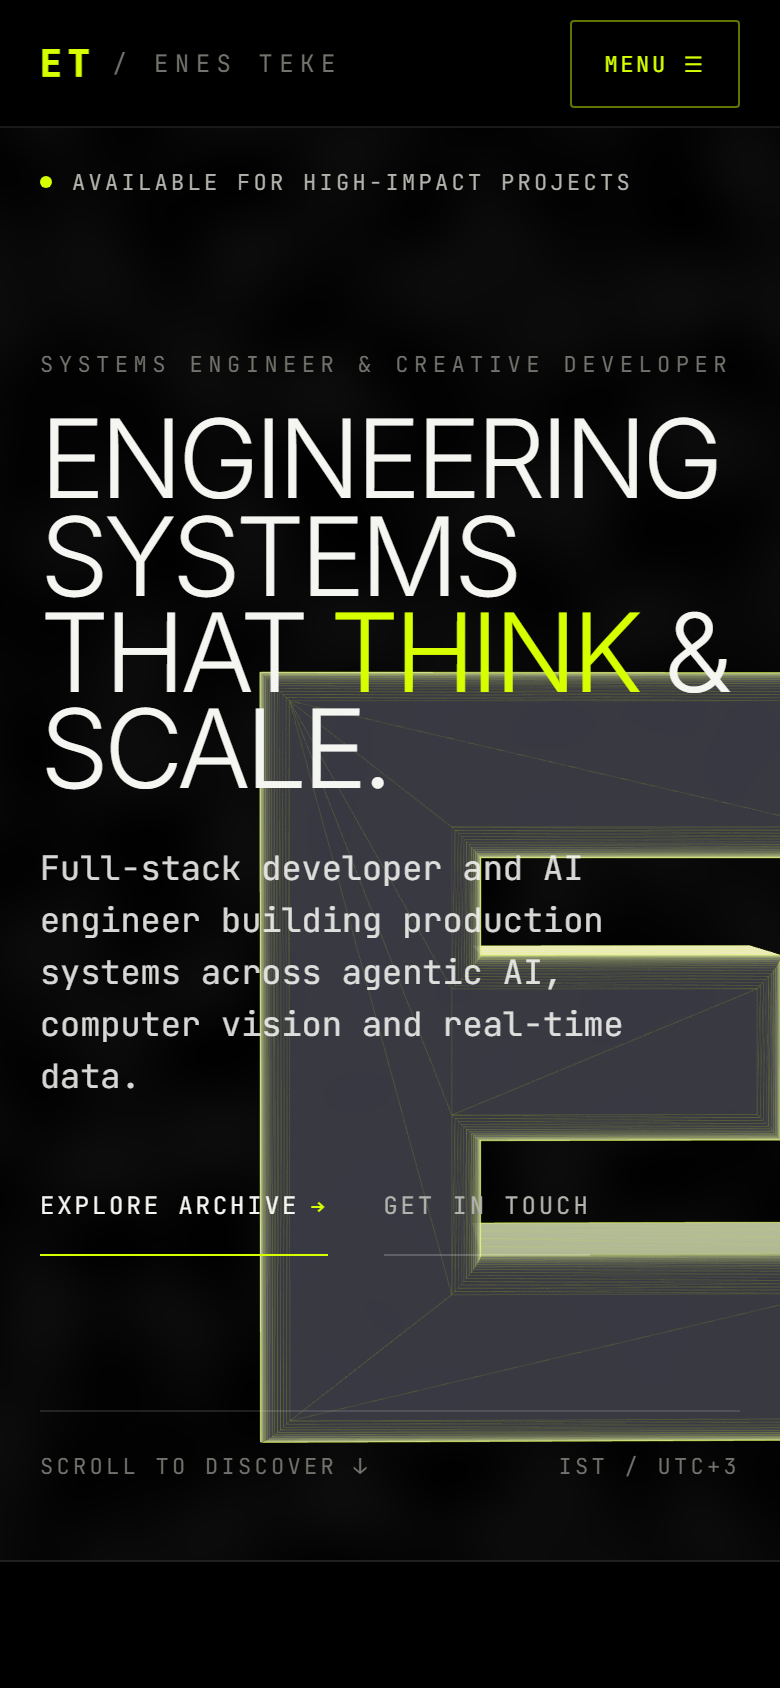
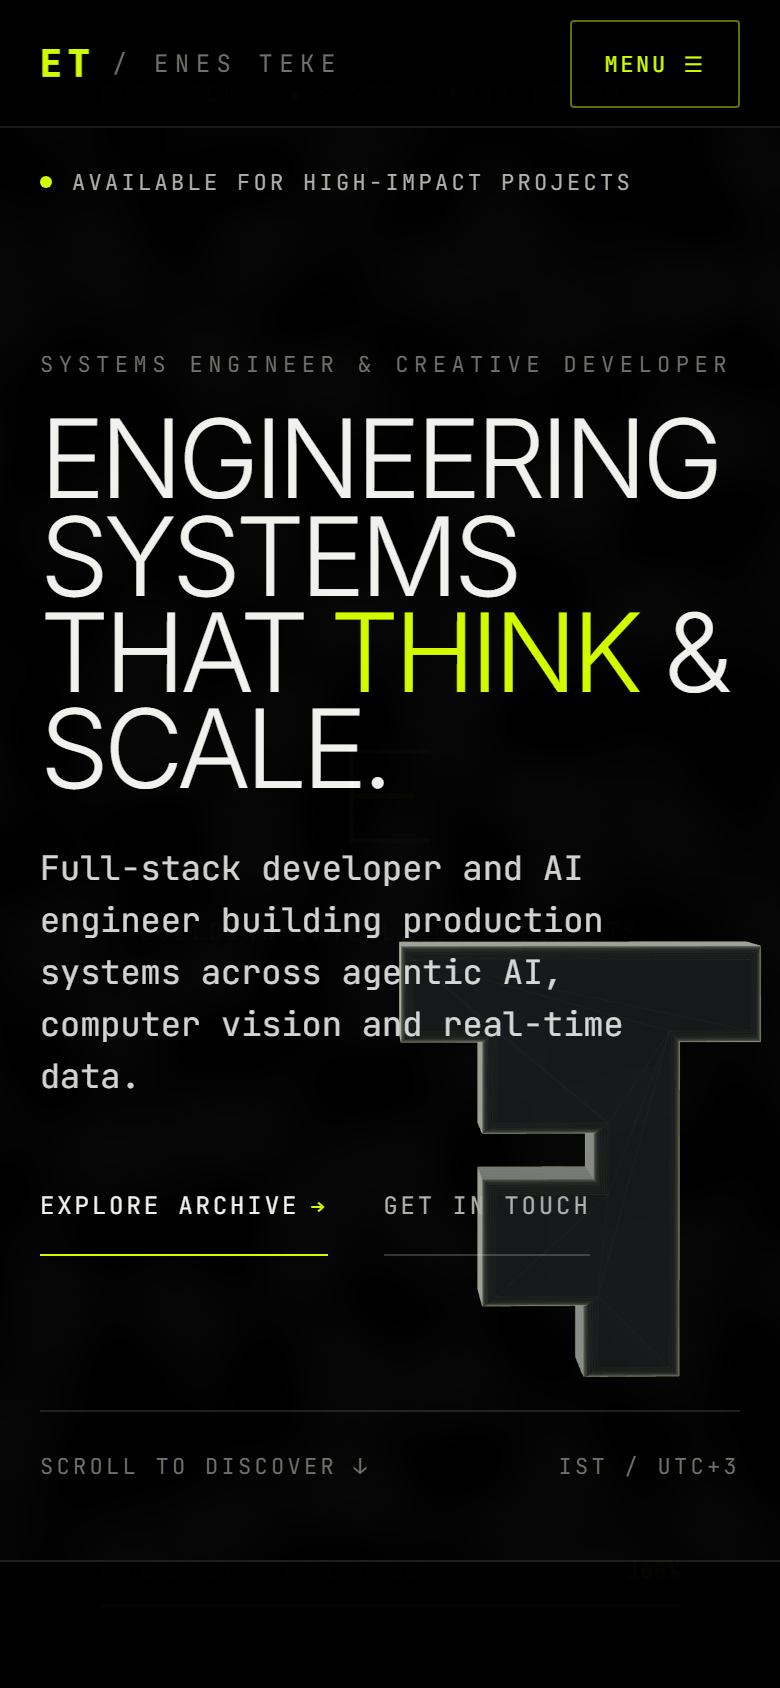
fix: complete hero visual capture and monogram safe positioning

Changed region(s): [[0.3077, 0.4005, 1.0, 0.8626]]

diff --git a/src/components/layout/LoadingScreen.tsx b/src/components/layout/LoadingScreen.tsx
@@ -1,111 +1,81 @@
 import React, { useEffect, useState } from 'react';
 
 interface LoadingScreenProps {
-  onLoaded?: () => void;
+  onLoaded: () => void;
 }
 
 export default function LoadingScreen({ onLoaded }: LoadingScreenProps) {
-  const [progress, setProgress] = useState<number>(0);
-  const [isFading, setIsFading] = useState<boolean>(false);
+  const [progress, setProgress] = useState(0);
+  const [fade, setFade] = useState(false);
+  const [showLoader, setShowLoader] = useState(true);
+
+  const isE2E = typeof window !== 'undefined' && new URLSearchParams(window.location.search).get('e2e') === '1';
 
   useEffect(() => {
-    const startTime = Date.now();
-    const duration = 1200;
+    if (isE2E) {
+      setProgress(100);
+      setFade(true);
+      onLoaded();
+      const timer = setTimeout(() => setShowLoader(false), 200);
+      return () => clearTimeout(timer);
+    }
 
     const interval = setInterval(() => {
-      const elapsed = Date.now() - startTime;
-      const pct = Math.min(100, Math.floor((elapsed / duration) * 100));
-      setProgress(pct);
-
-      if (pct >= 100) {
-        clearInterval(interval);
-        setTimeout(() => setIsFading(true), 150);
-        setTimeout(() => {
-          if (onLoaded) onLoaded();
-        }, 650);
-      }
-    }, 20);
+      setProgress((prev) => {
+        if (prev >= 100) {
+          clearInterval(interval);
+          setFade(true);
+          onLoaded();
+          setTimeout(() => setShowLoader(false), 600);
+          return 100;
+        }
+        return prev + 20;
+      });
+    }, 100);
 
     return () => clearInterval(interval);
-  }, [onLoaded]);
+  }, [onLoaded, isE2E]);
+
+  if (!showLoader) return null;
 
   return (
     <div
+      data-app-loader="true"
       style={{
         position: 'fixed',
-        top: 0,
-        left: 0,
-        width: '100vw',
-        height: '100vh',
+        inset: 0,
         backgroundColor: '#000000',
-        zIndex: 99999,
+        zIndex: 100000,
         display: 'flex',
         flexDirection: 'column',
         justifyContent: 'space-between',
-        padding: '40px 50px',
-        opacity: isFading ? 0 : 1,
-        pointerEvents: isFading ? 'none' : 'auto',
-        transition: 'opacity 0.5s cubic-bezier(0.65, 0, 0.35, 1)',
-        fontFamily: "'IBM Plex Mono', 'JetBrains Mono', monospace",
+        padding: '60px var(--page-padding)',
+        fontFamily: "var(--font-family-mono)",
         color: '#f5f5f2',
+        opacity: fade ? 0 : 1,
+        transition: 'opacity 0.6s cubic-bezier(0.16, 1, 0.3, 1)',
+        pointerEvents: fade ? 'none' : 'auto',
       }}
     >
-      <div style={{ display: 'flex', justifyContent: 'space-between', alignItems: 'center' }}>
-        <span style={{ fontSize: '11px', letterSpacing: '0.2em', color: '#73736e', textTransform: 'uppercase' }}>
-          ENES TEKE <span style={{ color: '#d7ff00', marginLeft: '6px' }}>●</span>
-        </span>
-        <span style={{ fontSize: '11px', letterSpacing: '0.15em', color: '#73736e' }}>
-          SYSTEM INITIALIZING...
-        </span>
+      <div style={{ fontSize: '11px', letterSpacing: '0.2em', color: '#73736e' }}>
+        SYSTEM INITIALIZING...
       </div>
 
-      <div style={{ display: 'flex', flexDirection: 'column', alignItems: 'center', justifyContent: 'center' }}>
-        <svg viewBox="0 0 100 100" style={{ width: '80px', height: '80px', marginBottom: '20px' }}>
-          <path
-            d="M 74 22 H 26 V 78 H 74"
-            fill="none"
-            stroke="#f5f5f2"
-            strokeWidth="3"
-            strokeLinecap="round"
-            style={{
-              strokeDasharray: 200,
-              strokeDashoffset: 200 - (progress / 100) * 200,
-              transition: 'stroke-dashoffset 0.1s linear',
-            }}
-          />
-          <path
-            d="M 26 50 H 64"
-            fill="none"
-            stroke="#d7ff00"
-            strokeWidth="3"
-            strokeLinecap="round"
-            style={{
-              strokeDasharray: 100,
-              strokeDashoffset: 100 - (progress / 100) * 100,
-              transition: 'stroke-dashoffset 0.1s linear',
-            }}
-          />
-        </svg>
-        <span style={{ fontSize: '12px', letterSpacing: '0.12em', color: '#b3b3ad', fontWeight: 300 }}>
+      <div style={{ maxWidth: '800px' }}>
+        <div style={{ fontFamily: "var(--font-family-sans)", fontSize: 'clamp(2rem, 5vw, 4rem)', fontWeight: 300, lineHeight: 1.1, textTransform: 'uppercase', marginBottom: '20px' }}>
           BUILDING INTELLIGENT PRODUCTS
-        </span>
+        </div>
+        <div style={{ fontSize: '12px', color: '#d7ff00', letterSpacing: '0.15em' }}>
+          CORE ENGINE / GLSL SHADERS
+        </div>
       </div>
 
-      <div>
-        <div style={{ display: 'flex', justifyContent: 'space-between', marginBottom: '10px', fontSize: '11px', color: '#73736e' }}>
-          <span>CORE ENGINE / GLSL SHADERS</span>
-          <span style={{ color: '#d7ff00', fontWeight: 600 }}>{progress}%</span>
+      <div style={{ display: 'flex', justifyContent: 'space-between', alignItems: 'flex-end', borderTop: '1px solid rgba(255,255,255,0.1)', paddingTop: '20px' }}>
+        <div style={{ fontSize: '11px', color: '#73736e' }}>
+          TRT / UTC+3
         </div>
-        <div style={{ width: '100%', height: '2px', backgroundColor: 'rgba(255,255,255,0.08)', position: 'relative' }}>
-          <div
-            style={{
-              width: `${progress}%`,
-              height: '100%',
-              backgroundColor: '#d7ff00',
-              boxShadow: '0 0 10px rgba(215, 255, 0, 0.4)',
-              transition: 'width 0.1s linear',
-            }}
-          />
+        <div style={{ fontSize: '48px', fontFamily: "var(--font-family-sans)", fontWeight: 300, color: '#f5f5f2' }}>
+          {progress}%
         </div>
       </div>
     </div>

diff --git a/src/components/scene/ETMonogramScene.tsx b/src/components/scene/ETMonogramScene.tsx
@@ -125,17 +125,17 @@ export default function ETMonogramScene({
   const getScrollTransform = (state: string) => {
     switch (state) {
       case 'works':
-        return { posX: isMobile ? 0 : 5.1, posY: isMobile ? -3.0 : -0.8, scale: isMobile ? 0.4 : 0.52, bgContrast: 0.12, wireframeOpacity: 0.018 };
+        return { posX: isMobile ? 0 : 5.3, posY: isMobile ? -3.0 : -1.2, scale: isMobile ? 0.35 : 0.40, bgContrast: 0.12, wireframeOpacity: 0.008 };
       case 'manifesto':
-        return { posX: isMobile ? 0 : 4.8, posY: isMobile ? -2.0 : -1.5, scale: isMobile ? 0.45 : 0.62, bgContrast: 0.08, wireframeOpacity: 0.012 };
+        return { posX: isMobile ? 0 : 5.0, posY: isMobile ? -2.0 : -1.6, scale: isMobile ? 0.40 : 0.46, bgContrast: 0.08, wireframeOpacity: 0.006 };
       case 'hero':
       default:
         return {
-          posX: isMobile ? 1.65 : 4.6,
-          posY: isMobile ? -2.75 : 0.05,
-          scale: isMobile ? 0.44 : 0.82,
-          bgContrast: 0.22,
-          wireframeOpacity: isMobile ? 0.018 : 0.045
+          posX: isMobile ? 2.05 : 4.7,
+          posY: isMobile ? -3.45 : 0.05,
+          scale: isMobile ? 0.28 : 0.76,
+          bgContrast: isMobile ? 0.18 : 0.22,
+          wireframeOpacity: isMobile ? 0.008 : 0.035
         };
     }
   };
@@ -235,22 +235,22 @@ export default function ETMonogramScene({
     camera.position.z = 18;
     const scene = new THREE.Scene();
 
-    // Create Unified 3D ET Monogram Shape
+    // Create Unified 3D ET Monogram Shape (E + T interlocking)
     const shape = new THREE.Shape();
-    shape.moveTo(-3.0, 4.0);
-    shape.lineTo(3.6, 4.0);
-    shape.lineTo(3.6, 2.6);
-    shape.lineTo(2.0, 2.6);
-    shape.lineTo(2.0, -4.0);
-    shape.lineTo(0.6, -4.0);
-    shape.lineTo(0.6, -2.6);
-    shape.lineTo(-1.4, -2.6);
-    shape.lineTo(-1.4, -0.6);
-    shape.lineTo(0.8, -0.6);
-    shape.lineTo(0.8, 0.8);
-    shape.lineTo(-1.4, 0.8);
-    shape.lineTo(-1.4, 2.6);
-    shape.lineTo(-3.0, 2.6);
+    shape.moveTo(-3.2, 4.0);
+    shape.lineTo(3.8, 4.0);
+    shape.lineTo(3.8, 2.6);
+    shape.lineTo(2.2, 2.6);
+    shape.lineTo(2.2, -4.0);
+    shape.lineTo(0.8, -4.0);
+    shape.lineTo(0.8, -2.6);
+    shape.lineTo(-1.6, -2.6);
+    shape.lineTo(-1.6, -0.7);
+    shape.lineTo(0.6, -0.7);
+    shape.lineTo(0.6, 0.7);
+    shape.lineTo(-1.6, 0.7);
+    shape.lineTo(-1.6, 2.6);
+    shape.lineTo(-3.2, 2.6);
     shape.closePath();
 
     const extrudeSettings = {
@@ -276,7 +276,7 @@ export default function ETMonogramScene({
       color: 0xd7ff00,
       wireframe: true,
       transparent: true,
-      opacity: isMobile ? 0.018 : 0.045,
+      opacity: isMobile ? 0.008 : 0.035,
     });
     const outlineMesh = new THREE.Mesh(geometry, outlineMaterial);
 

diff --git a/src/components/common/StaticMonogramFallback.tsx b/src/components/common/StaticMonogramFallback.tsx
@@ -34,30 +34,30 @@ export default function StaticMonogramFallback({ visible = false }: StaticMonogr
         style={{
           maxWidth: '42vw',
           maxHeight: '42vh',
-          filter: 'drop-shadow(0 0 20px rgba(215, 255, 0, 0.12))',
+          filter: 'drop-shadow(0 0 16px rgba(215, 255, 0, 0.10))',
         }}
       >
-        {/* Sculptural 3D Depth Silhouette of ET Monogram */}
+        {/* Sculptural 3D Silhouette of Unified ET Monogram */}
         <path
-          d="M 22 22 L 88 22 L 88 36 L 72 36 L 72 88 L 58 88 L 58 74 L 38 74 L 38 60 L 60 60 L 60 46 L 38 46 L 38 36 L 22 36 Z"
-          fill="rgba(255, 255, 255, 0.04)"
-          stroke="rgba(255, 255, 255, 0.15)"
+          d="M 20 20 L 92 20 L 92 34 L 74 34 L 74 90 L 58 90 L 58 74 L 38 74 L 38 60 L 60 60 L 60 46 L 38 46 L 38 34 L 20 34 Z"
+          fill="rgba(255, 255, 255, 0.03)"
+          stroke="rgba(255, 255, 255, 0.12)"
           strokeWidth="1"
         />
         <path
-          d="M 20 20 L 86 20 L 86 34 L 70 34 L 70 86 L 56 86 L 56 72 L 36 72 L 36 58 L 58 58 L 58 44 L 36 44 L 36 34 L 20 34 Z"
-          fill="rgba(20, 20, 24, 0.6)"
+          d="M 18 18 L 90 18 L 90 32 L 72 32 L 72 88 L 56 88 L 56 72 L 36 72 L 36 60 L 58 60 L 58 46 L 36 46 L 36 32 L 18 32 Z"
+          fill="rgba(18, 18, 22, 0.6)"
           stroke="#f5f5f2"
-          strokeWidth="1.6"
+          strokeWidth="1.5"
           strokeLinejoin="round"
         />
         <path
-          d="M 20 20 L 86 20 L 86 34 L 70 34 L 70 86 L 56 86 L 56 72 L 36 72 L 36 58 L 58 58 L 58 44 L 36 44 L 36 34 L 20 34 Z"
+          d="M 18 18 L 90 18 L 90 32 L 72 32 L 72 88 L 56 88 L 56 72 L 36 72 L 36 60 L 58 60 L 58 46 L 36 46 L 36 32 L 18 32 Z"
           fill="none"
           stroke="#d7ff00"
           strokeWidth="0.8"
           strokeDasharray="3 3"
-          opacity="0.6"
+          opacity="0.5"
         />
       </svg>
     </div>

diff --git a/src/sections/WorksSection.module.css b/src/sections/WorksSection.module.css
@@ -88,11 +88,23 @@
 .pipelineCanvas {
   display: grid;
   grid-template-columns: 1fr 1fr;
-  gap: 24px;
+  gap: 28px;
   margin: 24px 0;
   position: relative;
   min-height: 220px;
   align-content: space-between;
+}
+
+.pipelineConnection {
+  stroke: rgba(245, 245, 242, 0.24);
+  stroke-width: 1.5;
+  fill: none;
+}
+
+.pipelineConnectionActive {
+  stroke: rgba(215, 255, 0, 0.62);
+  stroke-width: 1.5;
+  fill: none;
 }
 
 .pipelineNode {
@@ -104,6 +116,7 @@
   letter-spacing: 0.1em;
   color: #f5f5f2;
   width: fit-content;
+  z-index: 2;
 }
 
 .pipelineNodeActive {
@@ -115,6 +128,7 @@
   font-size: 12px;
   letter-spacing: 0.1em;
   width: fit-content;
+  z-index: 2;
 }
 
 @media (max-width: 900px) {

diff --git a/src/sections/WorksSection.tsx b/src/sections/WorksSection.tsx
@@ -99,7 +99,7 @@ export default function WorksSection() {
                     )}
 
                     {index === 1 && (
-                      /* Variation 2: Architecture Data Flow Diagram (2x2 Asymmetric Grid) */
+                      /* Variation 2: Architecture Data Flow Diagram with Connecting SVG Lines */
                       <>
                         <div style={{ fontSize: '10px', color: '#73736e', letterSpacing: '0.15em' }}>
                           // EDITORIAL DNA PIPELINE FLOW
